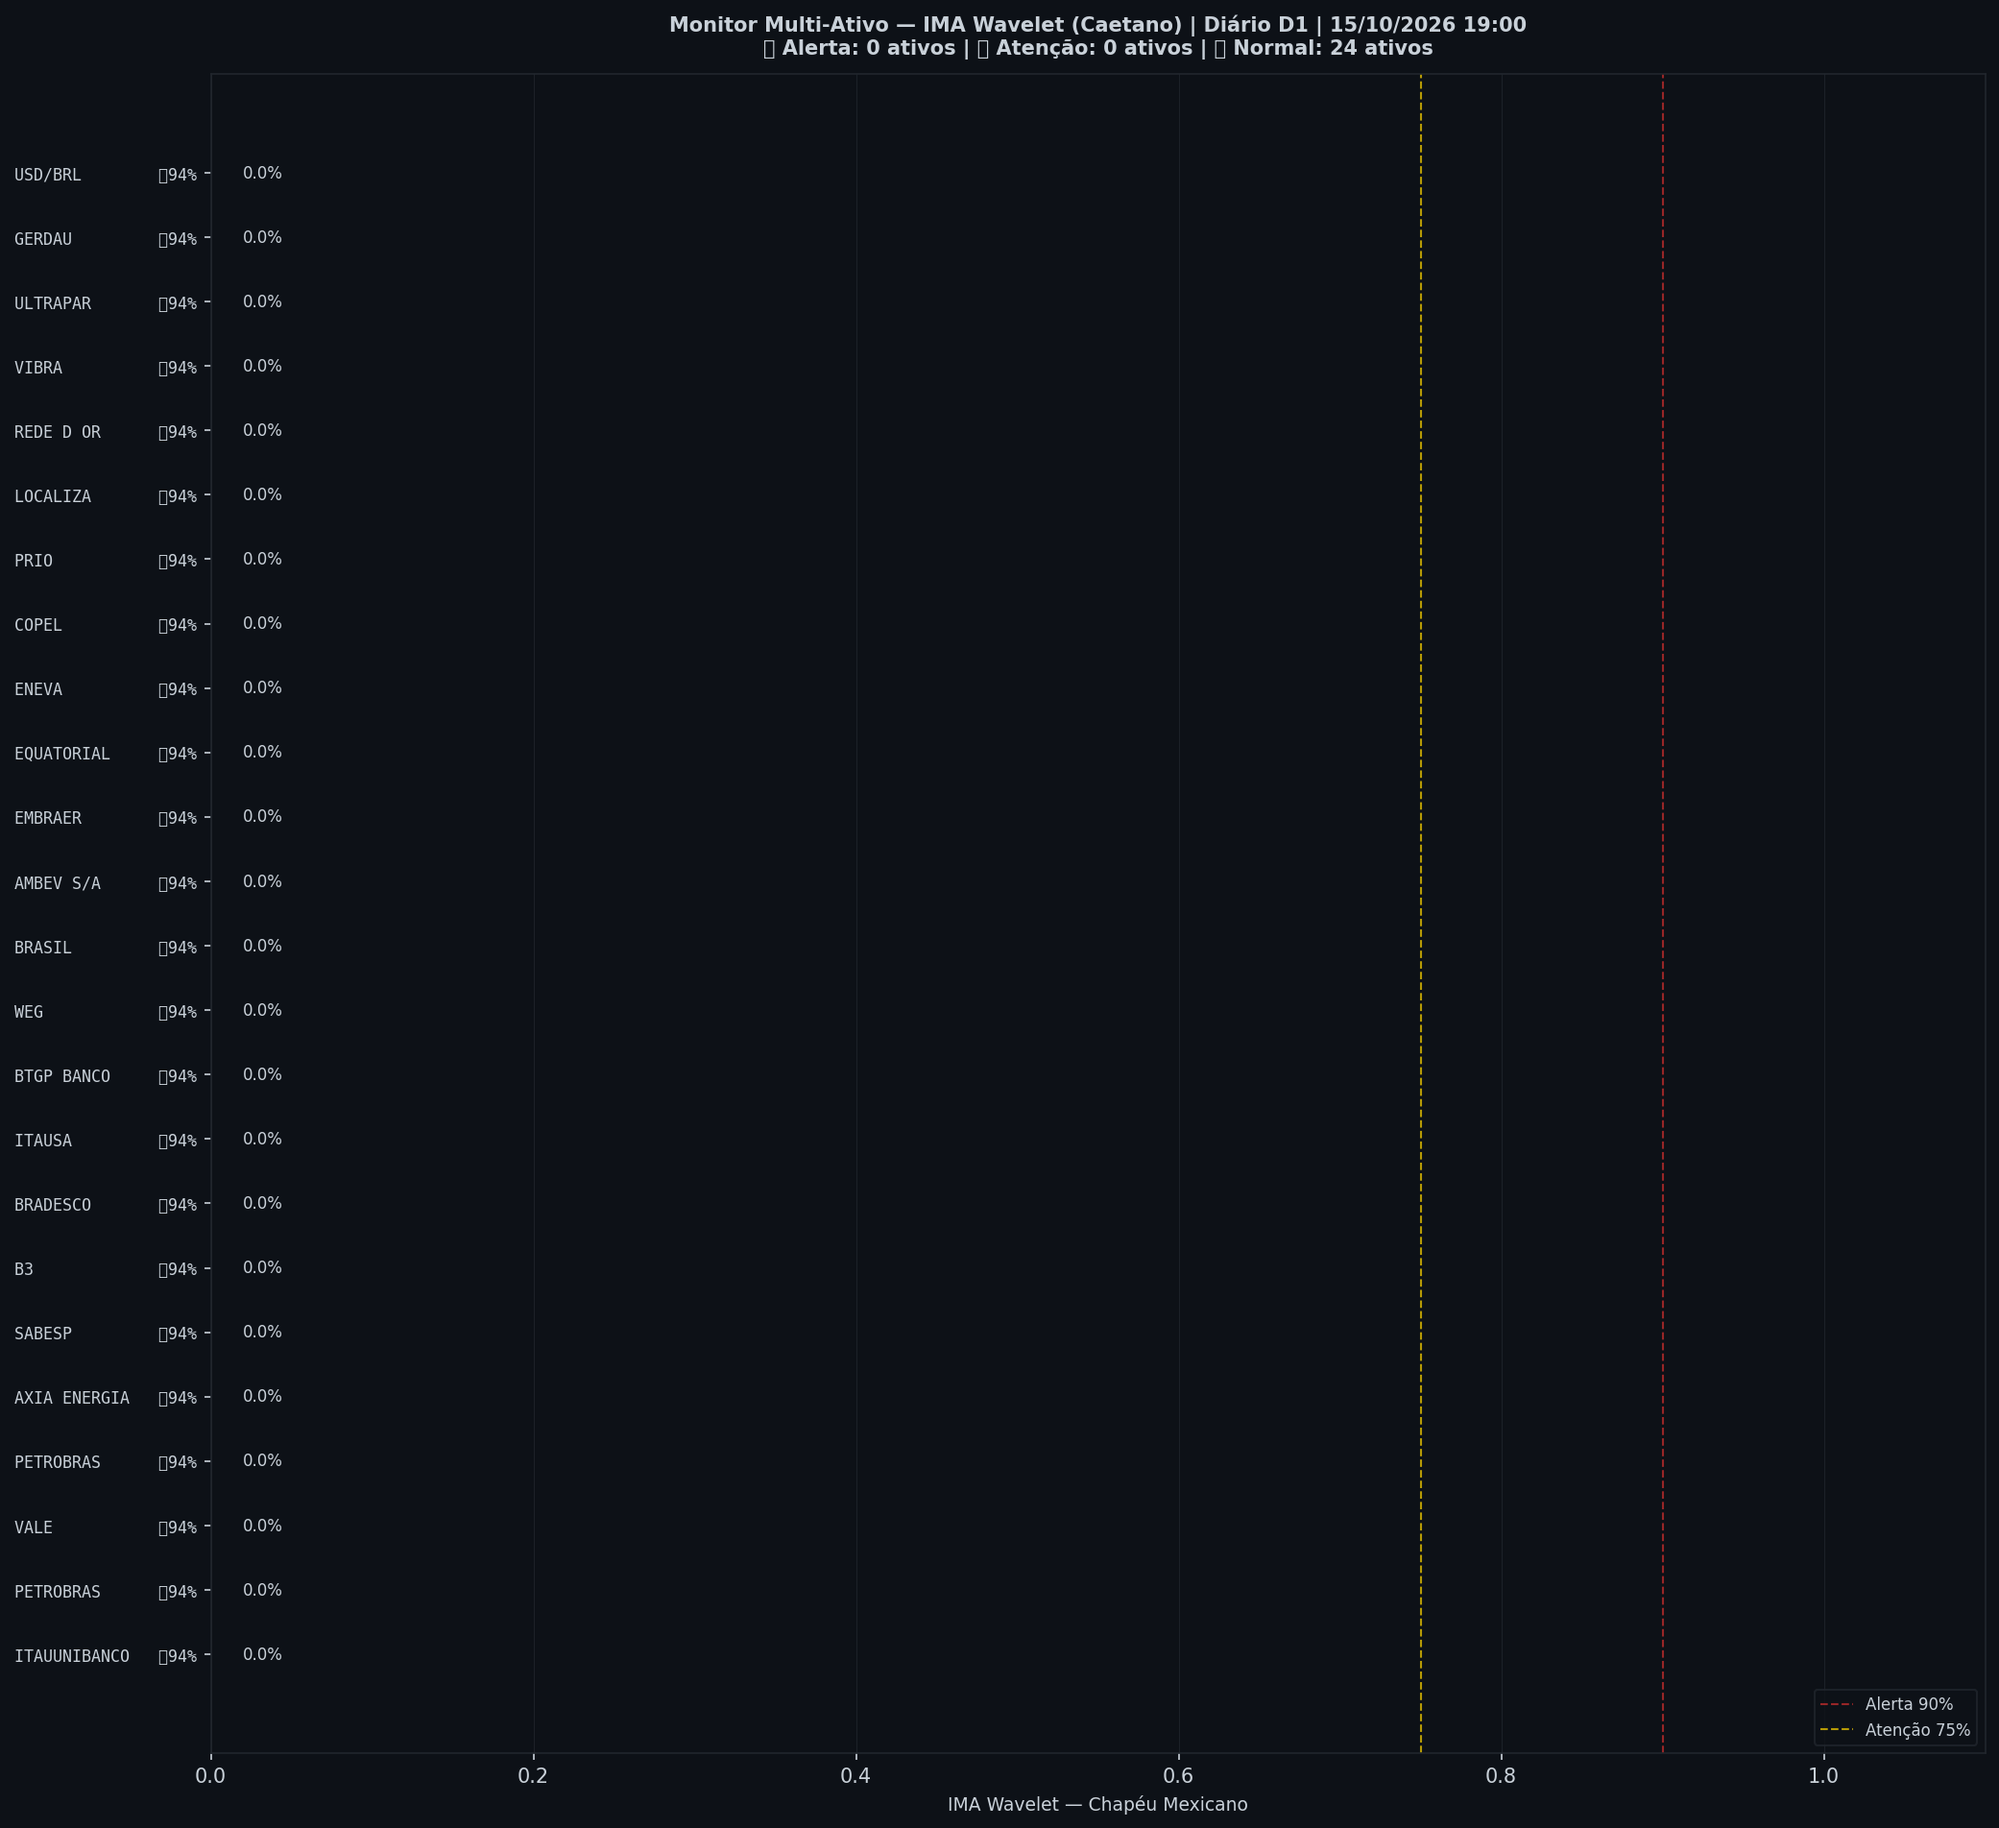
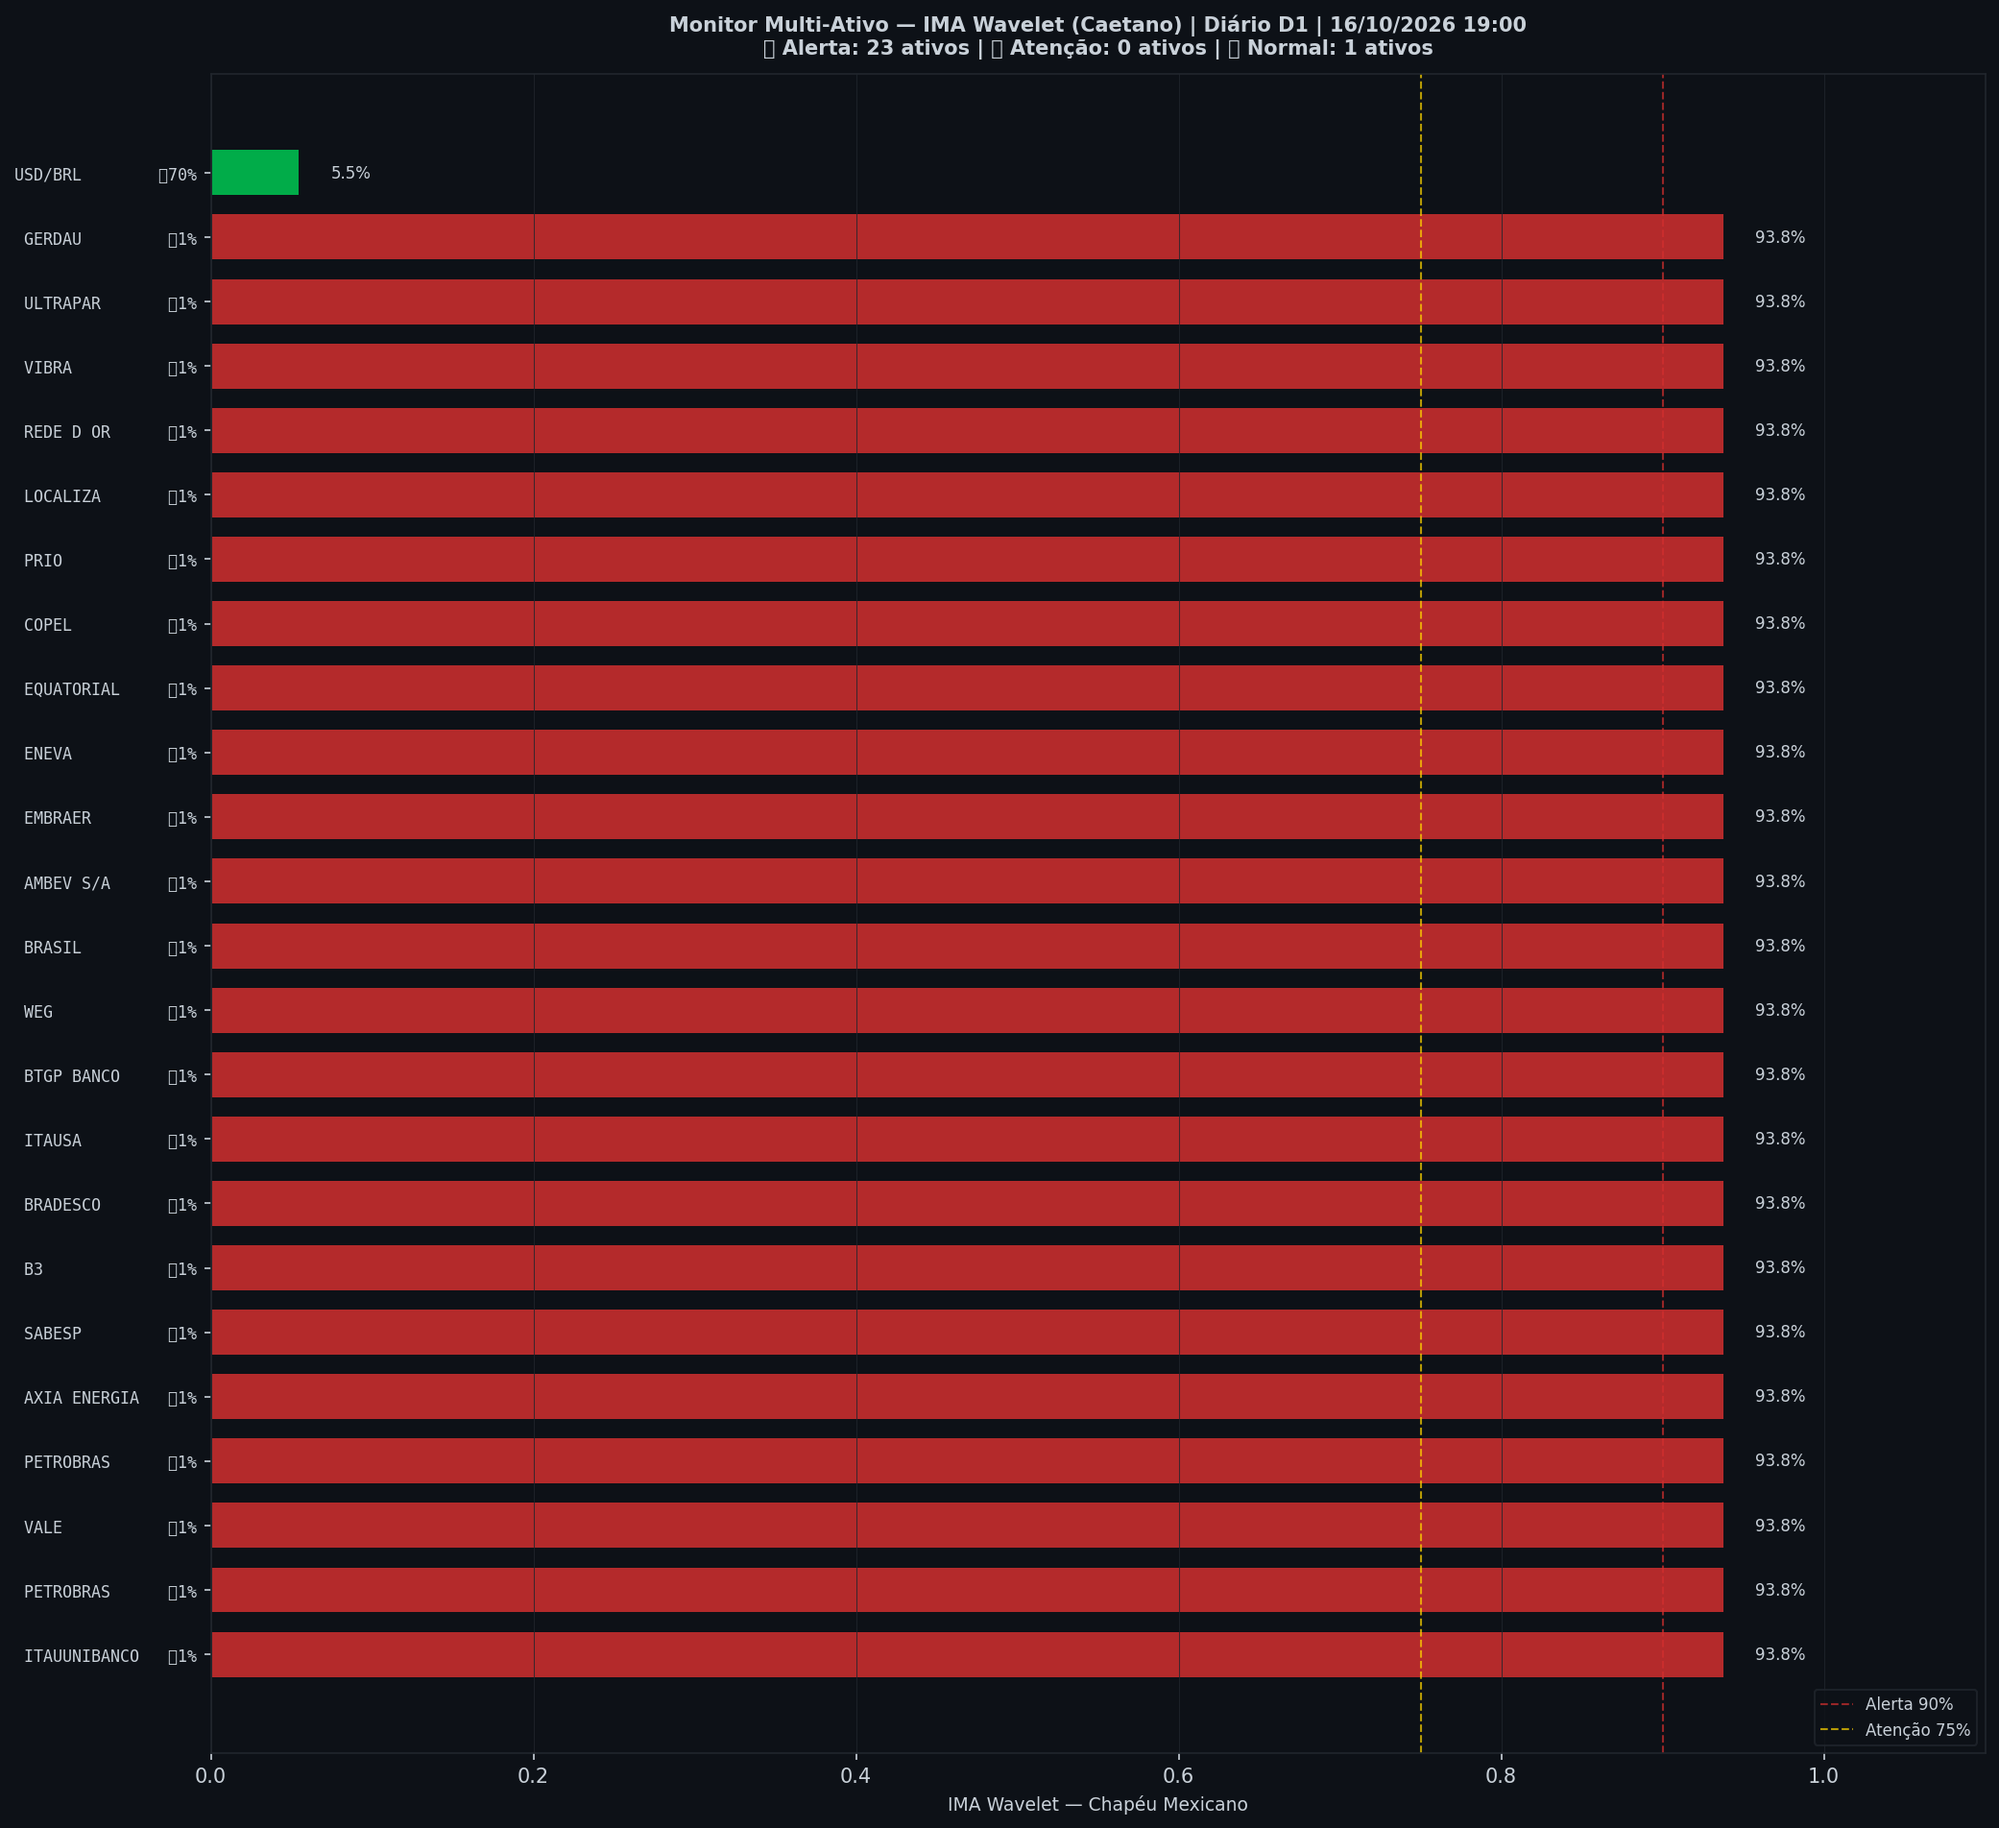
🤖 Auto: Sinal 16/10/2026 19:00

diff --git a/content/diario/2026-10-15.md b/content/diario/2026-10-15.md
@@ -1,0 +1,102 @@
+---
+title: "🟢 Diário 15/10/2026 — VERDE"
+date: 2026-10-16
+tags: [diario]
+---
+
+> [!success] 🟢 **VERDE** — Risco 46% · ▲ +1 p.p. vs leitura anterior
+> `█████████░░░░░░░░░░░`
+> Mercado sem sinais relevantes de estresse.
+
+
+| Indicador | Valor |
+|---|---|
+| 🔴 ζ Crash — severidade da queda em curso | **77%** |
+| 🔵 ζ Entrada — estrutura de fundo | 0% |
+| 🫧 LPPL DS-Confidence | 0% |
+| 📊 Ibovespa | 205.430 pts |
+
+![Gráfico do sinal](../graficos/sinal_diario.png)
+
+## Últimos 30 pregões
+
+| Data | Zona | Risco | IMA Crash | Entrada | LPPL |
+|---|---|---|---|---|---|
+| 2026-10-15 21:00 | 🟢 VERDE | **46%** | 77% | 0% | 0% |
+| 2026-10-14 21:00 | 🟢 VERDE | **45%** | 75% | 0% | 0% |
+| 2026-10-13 21:00 | 🟢 VERDE | **45%** | 74% | 1% | 0% |
+| 2026-10-12 21:00 | 🟢 VERDE | **45%** | 74% | 0% | 0% |
+| 2026-10-08 21:00 | 🟢 VERDE | **43%** | 72% | 0% | 0% |
+| 2026-10-07 21:00 | 🟢 VERDE | **38%** | 63% | 0% | 0% |
+| 2026-10-06 21:00 | 🟢 VERDE | **24%** | 40% | 1% | 0% |
+| 2026-10-05 21:00 | 🟢 VERDE | **15%** | 25% | 2% | 0% |
+| 2026-10-04 21:00 | 🟢 VERDE | **4%** | 6% | 4% | 0% |
+| 2026-10-01 21:00 | 🟢 VERDE | **1%** | 2% | 5% | 0% |
+| 2026-09-30 21:00 | 🟢 VERDE | **0%** | 0% | 9% | 0% |
+| 2026-09-29 21:00 | 🟢 VERDE | **0%** | 0% | 11% | 0% |
+| 2026-09-28 21:00 | 🟢 VERDE | **0%** | 0% | 11% | 0% |
+| 2026-09-27 21:00 | 🟢 VERDE | **0%** | 1% | 9% | 0% |
+| 2026-09-24 21:00 | 🟢 VERDE | **1%** | 2% | 5% | 0% |
+| 2026-09-23 21:00 | 🟢 VERDE | **0%** | 0% | 4% | 0% |
+| 2026-09-22 21:00 | 🟢 VERDE | **0%** | 0% | 3% | 0% |
+| 2026-09-21 21:00 | 🟢 VERDE | **0%** | 0% | 3% | 0% |
+| 2026-09-20 21:00 | 🟢 VERDE | **1%** | 2% | 4% | 0% |
+| 2026-09-17 21:00 | 🟢 VERDE | **4%** | 7% | 3% | 0% |
+| 2026-09-16 21:00 | 🟢 VERDE | **9%** | 15% | 2% | 0% |
+| 2026-09-15 21:00 | 🟢 VERDE | **11%** | 18% | 2% | 0% |
+| 2026-09-14 21:00 | 🟢 VERDE | **37%** | 62% | 0% | 0% |
+| 2026-09-13 21:00 | 🟢 VERDE | **32%** | 53% | 0% | 0% |
+| 2026-09-10 21:00 | 🟢 VERDE | **30%** | 50% | 0% | 0% |
+| 2026-09-09 21:00 | 🟢 VERDE | **27%** | 45% | 0% | 0% |
+| 2026-09-08 21:00 | 🟢 VERDE | **22%** | 37% | 0% | 0% |
+| 2026-09-07 21:00 | 🟢 VERDE | **17%** | 28% | 0% | 0% |
+| 2026-09-03 21:00 | 🟢 VERDE | **6%** | 10% | 1% | 0% |
+| 2026-09-02 21:00 | 🟢 VERDE | **3%** | 5% | 5% | 0% |
+
+## Monitor Multi-Ativo
+
+**96% dos ativos em tensão** (23🔴 0🟡) — quanto mais ativos disparam juntos, mais confiável o sinal.
+
+| Zona | Ativo | Setor | IMA Crash | IMA Entrada |
+|---|---|---|---|---|
+| 🔴 | **ITAUUNIBANCO** | Financeiro | 93.8% | 0.8% |
+| 🔴 | **PETROBRAS** | Petróleo | 93.8% | 0.8% |
+| 🔴 | **VALE** | Mineração | 93.8% | 0.8% |
+| 🔴 | **PETROBRAS** | Petróleo | 93.8% | 0.8% |
+| 🔴 | **AXIA ENERGIA** | Energia | 93.8% | 0.8% |
+| 🔴 | **SABESP** | Saneamento | 93.8% | 0.8% |
+| 🔴 | **B3** | Financeiro | 93.8% | 0.8% |
+| 🔴 | **BRADESCO** | Financeiro | 93.8% | 0.8% |
+| 🔴 | **ITAUSA** | Financeiro | 93.8% | 0.8% |
+| 🔴 | **BTGP BANCO** | Financeiro | 93.8% | 0.8% |
+| 🔴 | **WEG** | Industrial | 93.8% | 0.8% |
+| 🔴 | **BRASIL** | Financeiro | 93.8% | 0.8% |
+| 🔴 | **AMBEV S/A** | Consumo | 93.8% | 0.8% |
+| 🔴 | **EMBRAER** | Outros | 93.8% | 0.8% |
+| 🔴 | **ENEVA** | Energia | 93.8% | 0.8% |
+| 🔴 | **EQUATORIAL** | Energia | 93.8% | 0.8% |
+| 🔴 | **COPEL** | Energia | 93.8% | 0.8% |
+| 🔴 | **PRIO** | Petróleo | 93.8% | 0.8% |
+| 🔴 | **LOCALIZA** | Aluguel | 93.8% | 0.8% |
+| 🔴 | **REDE D OR** | Saúde | 93.8% | 0.8% |
+| 🔴 | **VIBRA** | Energia | 93.8% | 0.8% |
+| 🔴 | **ULTRAPAR** | Outros | 93.8% | 0.8% |
+| 🔴 | **GERDAU** | Siderurgia | 93.8% | 0.8% |
+| 🟢 | **USD/BRL** | Câmbio | 5.5% | 70.3% |
+
+![Monitor multi-ativo](../graficos/multi_diario.png)
+
+*Página atualizada em 16/10/2026 19:00 BRT (leitura da barra de 2026-10-15 BRT).*
+
+> [!info]- Como interpretar (clique para expandir)
+> - **ζ Crash**: fração dos coeficientes wavelet acima do corte (Caetano & Yoneyama 2009). Escala absoluta: ζ=0,90 = 90% dos coeficientes anômalos — historicamente, quedas com ζ≥0,90 foram mais fundas e mais longas. **Mede a severidade do movimento em curso, não prevê o início da queda.**
+> - **ζ Entrada**: coeficientes negativos além do corte — estrutura de fundo, possível região de compra.
+> - **LPPL DS-Confidence**: fração de janelas (60–504 pregões) em que o modelo de bolha de Sornette produz um ajuste válido. 30% já é relevante; acima de 50% é forte evidência de estrutura de bolha.
+> - **Zonas com histerese**: o sinal só muda de zona ao cruzar o limiar de entrada, e só volta ao cruzar o de saída — evita flip-flop diário.
+
+
+---
+*Sinal de Crise B3 v4 · IMA Wavelet ([Caetano & Yoneyama, Physica-A 2007](https://doi.org/10.1016/j.physa.2007.03.054)) + LPPL DS-Confidence (Sornette, ETH-Zurich) · [Metodologia](metodologia) · [Histórico](historico)*
+
+> [!quote]- Aviso
+> Estudo acadêmico. Não constitui recomendação de investimento.

diff --git a/content/index.md b/content/index.md
@@ -8,21 +8,21 @@ tags: [home]
 
 Monitoramento diário e intraday do Ibovespa — **IMA Wavelet** (Prof. Marco Antonio Leonel Caetano, ITA/INSPER) + **LPPL DS-Confidence** (Prof. Didier Sornette, ETH-Zurich).
 
-*Última atualização: 16/10/2026 17:30 BRT · ^BVSP · Intraday 15min · v4*
+*Última atualização: 16/10/2026 19:00 BRT · ^BVSP · Diário D1 · v4*
 
-> [!success] 🟢 **VERDE** — Risco 0% · ＝ +0 p.p. vs leitura anterior
-> `░░░░░░░░░░░░░░░░░░░░`
+> [!success] 🟢 **VERDE** — Risco 46% · ▲ +1 p.p. vs leitura anterior
+> `█████████░░░░░░░░░░░`
 > Mercado sem sinais relevantes de estresse.
 
 
 | Indicador | Valor |
 |---|---|
-| 🔴 ζ Crash — severidade da queda em curso | **0%** |
-| 🔵 ζ Entrada — estrutura de fundo | 1% |
+| 🔴 ζ Crash — severidade da queda em curso | **77%** |
+| 🔵 ζ Entrada — estrutura de fundo | 0% |
 | 🫧 LPPL DS-Confidence | 0% |
-| 📊 Ibovespa | 205.157 pts |
+| 📊 Ibovespa | 205.430 pts |
 
-**Multi-ativo:** 0% em tensão (0🔴 0🟡 de 24 ativos)
+**Multi-ativo:** 96% em tensão (23🔴 0🟡 de 24 ativos)
 
 
 > [!tip]- Calibração v4 (backtest 15y)
@@ -32,8 +32,13 @@ Monitoramento diário e intraday do Ibovespa — **IMA Wavelet** (Prof. Marco An
 
 | Data | Zona | Risco | IMA | LPPL |
 |---|---|---|---|---|
-| [16 Oct 2026](diario/2026-10-16) | 🟢 VERDE | **0%** | 0% | 0% |
-| [15 Oct 2026](diario/2026-10-15) | 🟢 VERDE | **1%** | 1% | 0% |
+| [15 Oct 2026](diario/2026-10-15) | 🟢 VERDE | **46%** | 77% | 0% |
+| [14 Oct 2026](diario/2026-10-14) | 🟢 VERDE | **45%** | 75% | 0% |
+| [13 Oct 2026](diario/2026-10-13) | 🟢 VERDE | **45%** | 74% | 0% |
+| [12 Oct 2026](diario/2026-10-12) | 🟢 VERDE | **45%** | 74% | 0% |
+| [08 Oct 2026](diario/2026-10-08) | 🟢 VERDE | **43%** | 72% | 0% |
+| [07 Oct 2026](diario/2026-10-07) | 🟢 VERDE | **38%** | 63% | 0% |
+| [06 Oct 2026](diario/2026-10-06) | 🟢 VERDE | **24%** | 40% | 0% |
 
 ## Navegação
 

diff --git a/content/historico.md b/content/historico.md
@@ -7,6 +7,7 @@ tags: [historico]
 
 | Data | Modo | Zona | Risco | IMA | LPPL |
 |---|---|---|---|---|---|
+| 2026-10-15 | diario | 🟢 VERDE | 46% | 77% | 0% |
 | 2026-10-16 16:45 | intraday | 🟢 VERDE | 0% | 0% | 0% |
 | 2026-10-16 16:30 | intraday | 🟢 VERDE | 0% | 0% | 0% |
 | 2026-10-16 16:15 | intraday | 🟢 VERDE | 1% | 1% | 0% |
